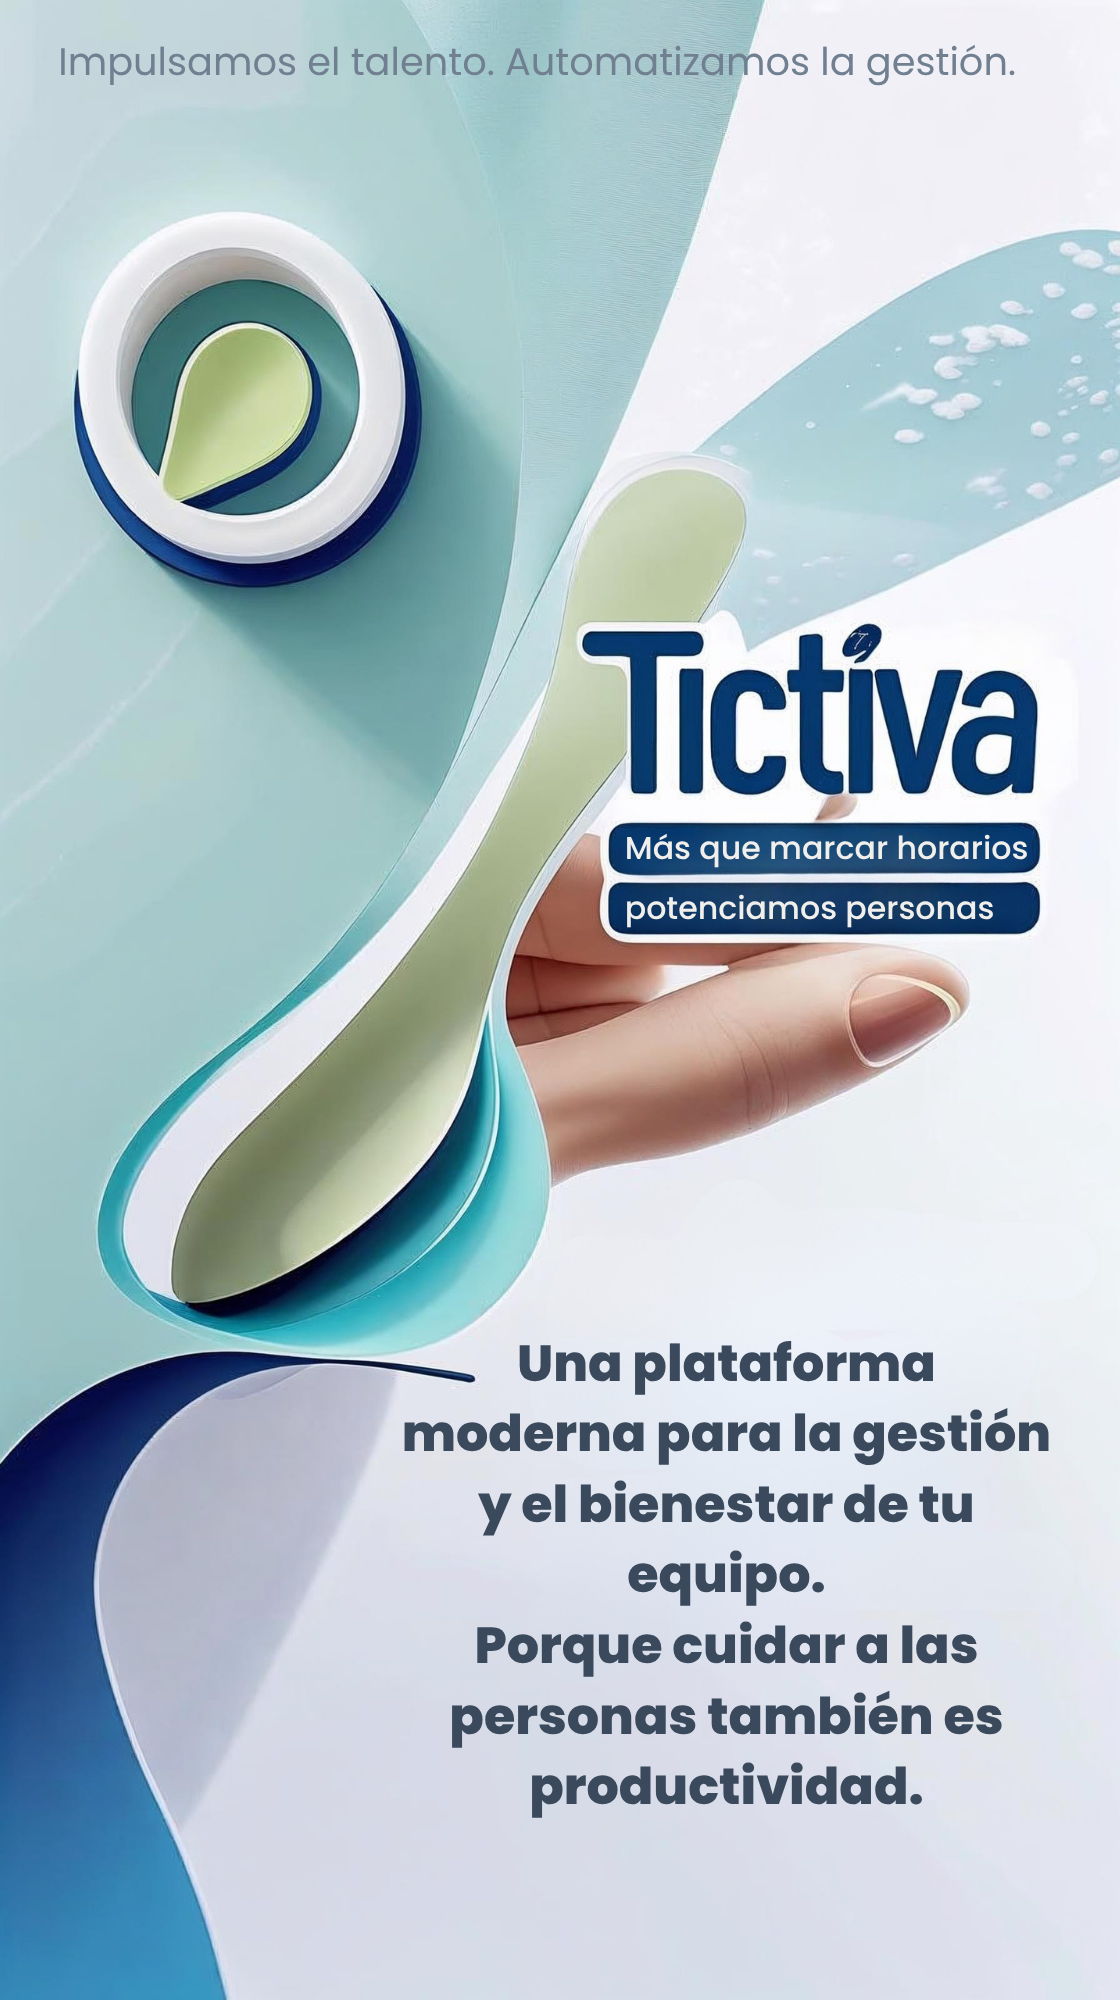
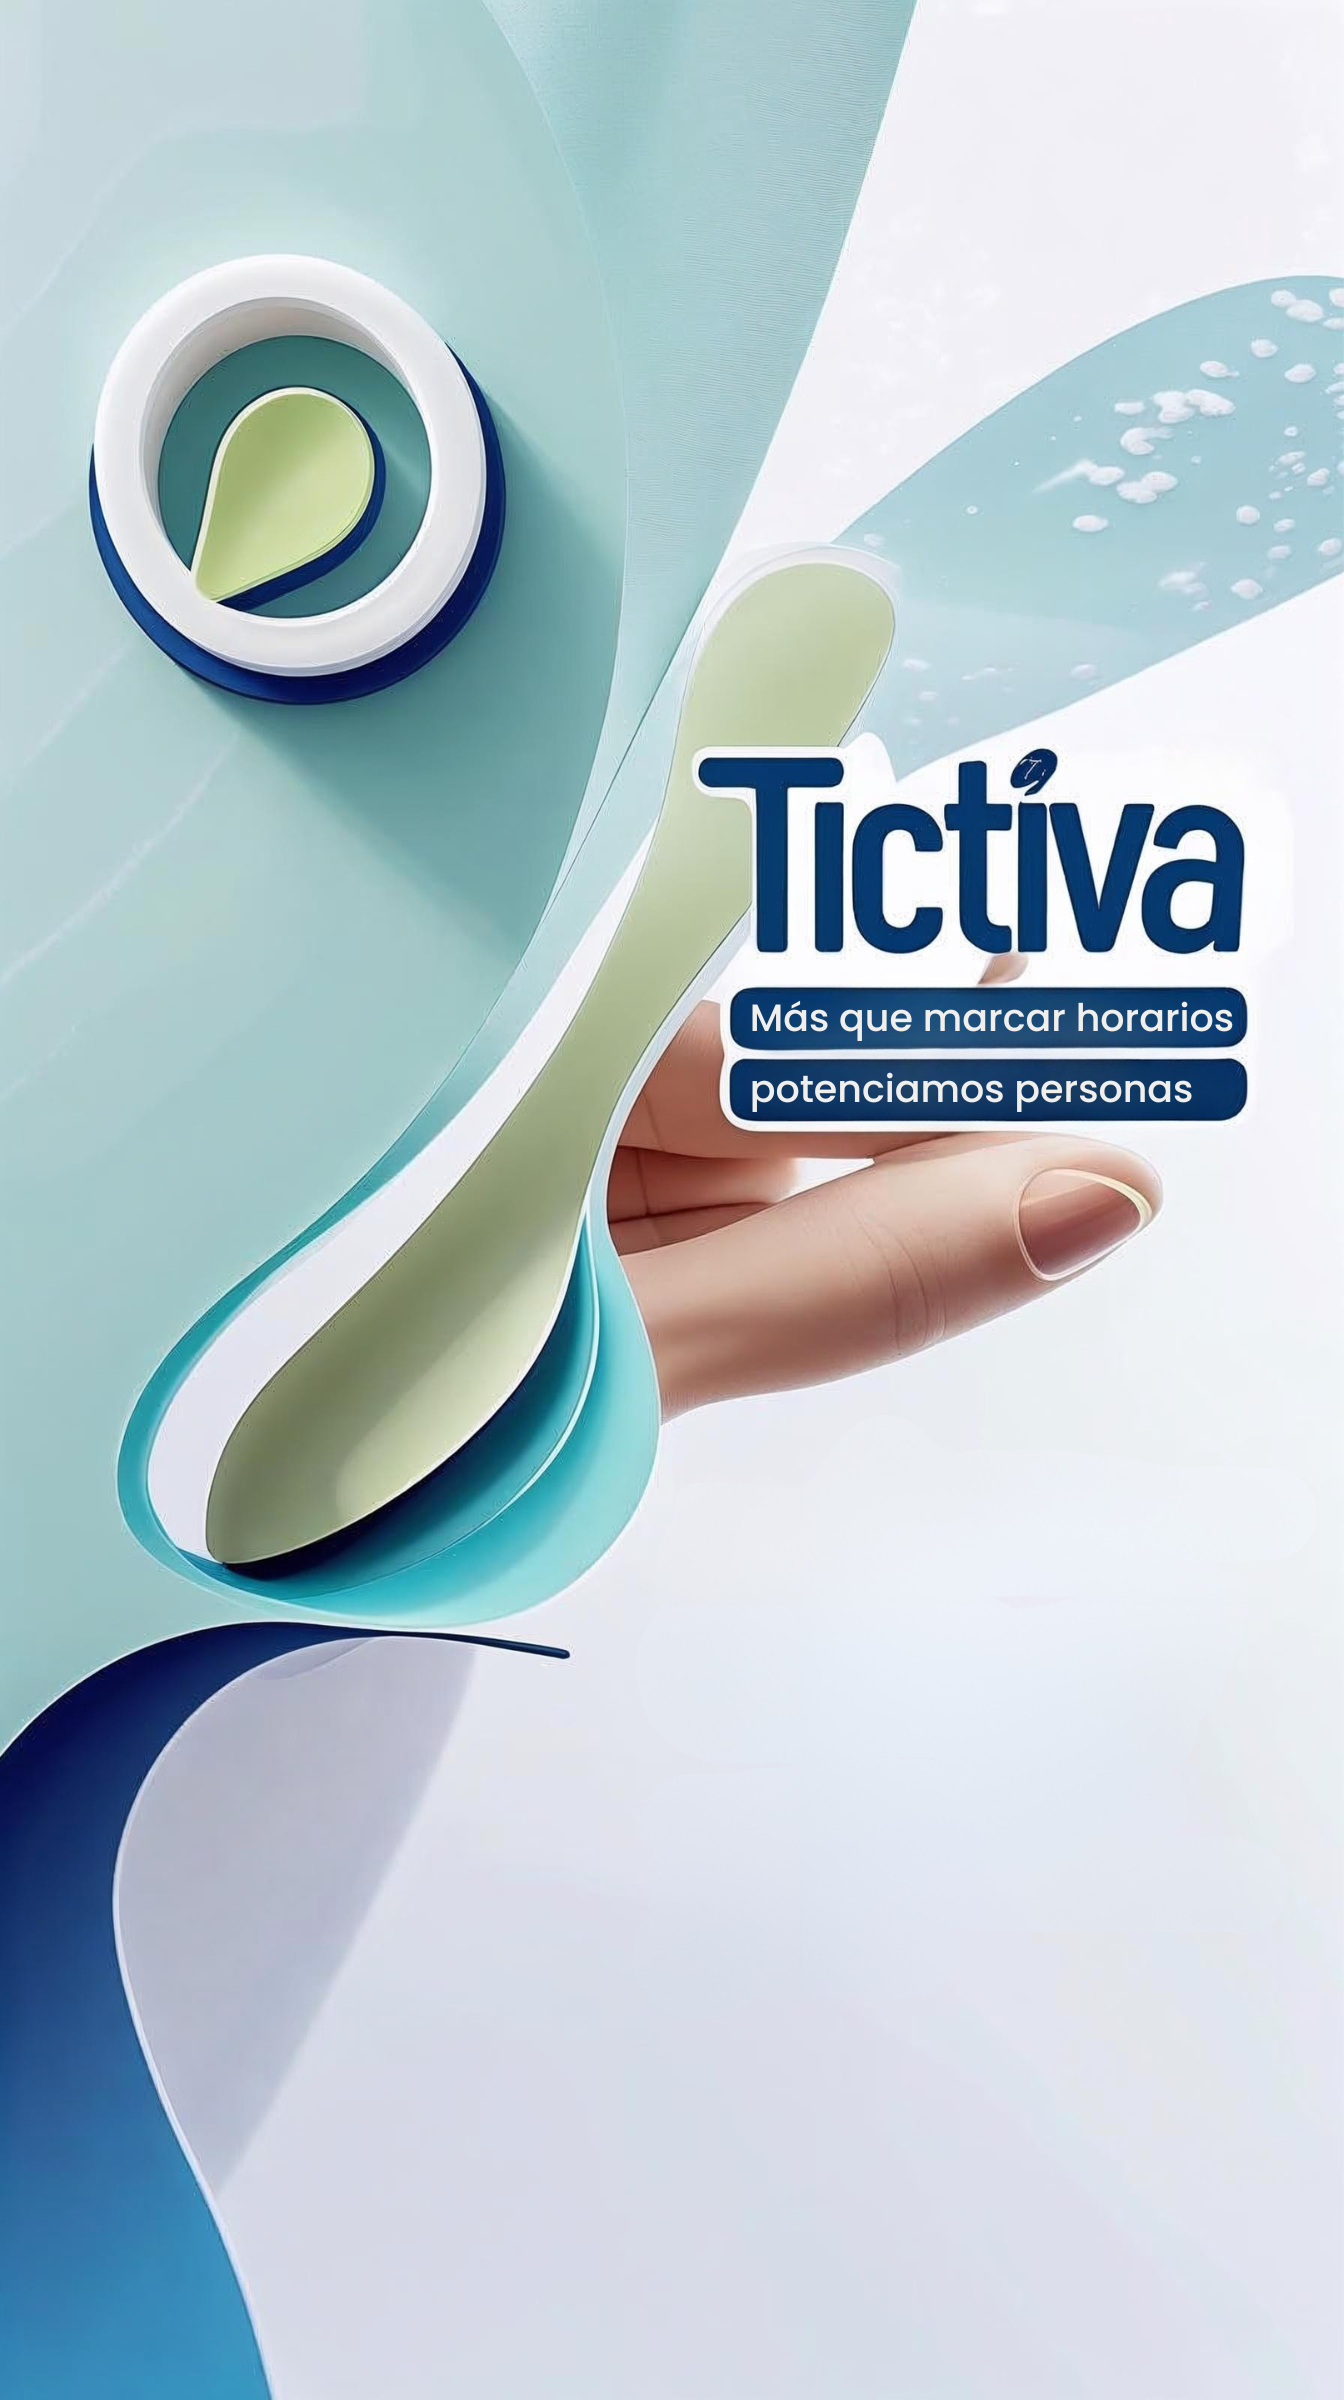
ajustando diseño en ñoginpage

diff --git a/tictiva-client/src/components/LoginPage.module.css b/tictiva-client/src/components/LoginPage.module.css
@@ -14,20 +14,20 @@
   width: 100%;
   max-width: 1000px; /* Ancho máximo de la tarjeta */
   background: var(--blanco);
-  border-radius: 24px; /* Bordes redondeados como en Imagen 1 y 2 */
+  border-radius: 24px; /* Bordes redondeados */
   box-shadow: 0 10px 30px rgba(0, 0, 0, 0.08);
-  overflow: hidden; /* Para que las columnas internas respeten el borde redondeado */
+  overflow: hidden;
 }
 
 /* === Columna Izquierda: Formulario === */
 .formSection {
-  flex: 1; /* Ocupa la mitad del espacio */
-  padding: 3rem; /* Espacio interno amplio */
+  flex: 1;
+  padding: 3rem;
 }
 
 .title {
   font-family: var(--font-principal);
-  font-weight: 800; /* ExtraBold */
+  font-weight: 800;
   font-size: 2rem;
   color: var(--azul-tictiva);
 }
@@ -41,7 +41,7 @@
 .tagline {
   font-size: 1rem;
   color: var(--azul-tictiva);
-  font-weight: 600; /* SemiBold */
+  font-weight: 600;
   margin-top: 1.5rem;
   margin-bottom: 2rem;
   border-left: 3px solid var(--verde-claro);
@@ -128,25 +128,57 @@
 }
 
 
-/* === Columna Derecha: Diseño de Marca === */
+/* === Columna Derecha: Diseño de Marca (MODIFICADA) === */
 .brandSection {
-  flex: 1; /* Ocupa la otra mitad */
-  background: var(--verde-menta); /* Usamos el verde menta de fondo */
+  flex: 1;
   display: flex;
-  align-items: center;
-  justify-content: center;
-  padding: 3rem;
   
-  /* Esto adapta el diseño de la Imagen 1 (curva) */
+  /* 1. Ponemos tu imagen como fondo */
+  /* Revisa que el nombre 'tictiva-brand-image.png' sea correcto */
+  background-image: url('../assets/tictiva-brand-image.png');
+  
+  /* 2. Configuramos cómo se muestra el fondo */
+  background-size: cover;   /* Rellena el espacio */
+  background-position: center; /* Se centra (puedes cambiar a 'top center' si prefieres) */
+  background-repeat: no-repeat; /* No se repite */
+
+  /* 3. Mantenemos la forma ondulada */
   border-top-left-radius: 100px;
   border-bottom-left-radius: 100px;
-  margin-left: -80px; /* Truco para superponer la curva */
+  margin-left: -80px;
 }
 
-/* 3. Estilos para tu imagen PNG */
-.brandImage {
-  width: 100%; /* La imagen ocupa todo el ancho de su contenedor */
-  max-width: 400px; /* Un tamaño máximo para que no sea gigante */
-  height: auto; /* Mantiene la proporción */
-  object-fit: contain; /* Asegura que la imagen se vea completa */
+
+/* === Estilos para la sección de Fiscalización DT (AÑADIDOS) === */
+.fiscalizacionSection {
+  margin-top: 2rem; /* Espacio superior */
+  border-top: 1px solid #e0e0e0; /* Una línea divisoria sutil */
+  padding-top: 1.5rem;
+  text-align: center;
+}
+
+.fiscalizacionLink {
+  display: inline-flex; /* Para que la flecha esté al lado */
+  align-items: center;
+  color: var(--azul-tictiva);
+  font-weight: 600;
+  text-decoration: none;
+  font-size: 0.95rem;
+  transition: color 0.3s ease;
+}
+
+.fiscalizacionLink:hover {
+  color: var(--gris-azulado); /* Un ligero cambio al pasar el mouse */
+}
+
+.arrowIcon {
+  margin-left: 0.5rem;
+  font-size: 1.2rem; /* Flecha un poco más grande */
+}
+
+.fiscalizacionInfo {
+  font-size: 0.8rem;
+  color: var(--gris-azulado);
+  margin-top: 0.5rem;
+  line-height: 1.4; /* Espaciado entre líneas */
 }

diff --git a/tictiva-client/src/components/LoginPage.jsx b/tictiva-client/src/components/LoginPage.jsx
@@ -1,7 +1,5 @@
 import styles from './LoginPage.module.css';
-// 1. Importa tu imagen. 
-// Asegúrate de que el nombre 'tictiva-brand-image.png' coincida con el nombre de tu archivo.
-import brandImage from '../assets/tictiva-brand-image.png'; 
+// Ya no importamos la imagen aquí, se llama desde el CSS.
 
 function LoginPage() {
   return (
@@ -10,7 +8,6 @@ function LoginPage() {
         
         {/* === Columna Izquierda: Formulario === */}
         <div className={styles.formSection}>
-          {/* <img src={logoTictiva} alt="Logo Tictiva" className={styles.logo} /> */}
           <h1 className={styles.title}>Bienvenido de nuevo</h1>
           <p className={styles.subtitle}>a tu plataforma de gestión</p>
           
@@ -41,16 +38,23 @@ function LoginPage() {
           <p className={styles.registerLink}>
             ¿No tienes cuenta? <a href="#">Regístrate</a>
           </p>
+
+          {/* === Sección de Acceso Fiscalización DT (AÑADIDA) === */}
+          <div className={styles.fiscalizacionSection}>
+            <a href="#" className={styles.fiscalizacionLink}>
+              Acceso para Fiscalización DT 
+              <span className={styles.arrowIcon}>→</span>
+            </a>
+            <p className={styles.fiscalizacionInfo}>
+              Acceso temporal para fiscalizadores según normativa legal
+            </p>
+          </div>
         </div>
 
         {/* === Columna Derecha: Diseño de Marca === */}
+        {/* Esta sección está vacía a propósito. 
+            El CSS le aplica la forma y la imagen de fondo. */}
         <div className={styles.brandSection}>
-          {/* 2. Aquí está la imagen en lugar del texto */}
-          <img 
-            src={brandImage} 
-            alt="Branding Tictiva" 
-            className={styles.brandImage}
-          />
         </div>
 
       </div>
